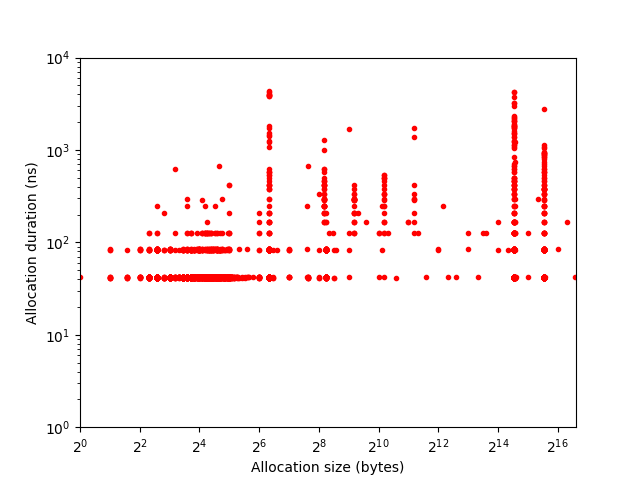
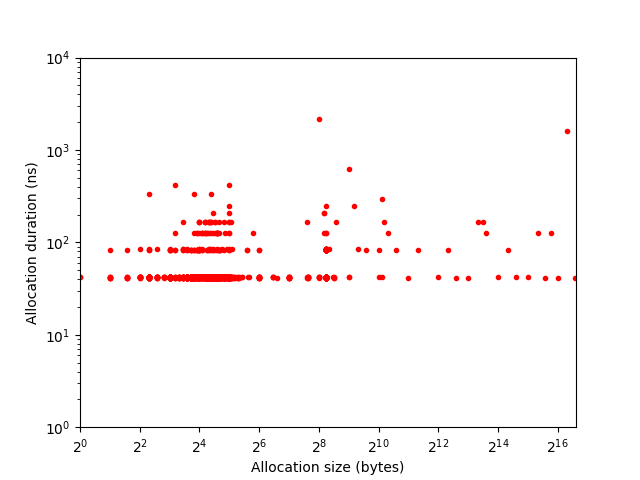
ch6: updating the speed of particle geting tansparent

diff --git a/ch6/particles/src/main.rs b/ch6/particles/src/main.rs
@@ -101,7 +101,7 @@ impl Particle {
         self.acceleration = mul_scalar(self.acceleration, 0.7);
 
         // makes the particle mor transparent over time
-        self.color[3] *= 0.95;
+        self.color[3] *= 0.995;
     }
 }
 
@@ -109,7 +109,7 @@ impl World {
     fn new(width: f64, height: f64) -> Self {
         Self {
             curent_turn: 0,
-            particles: Vec::with_capacity(1000),
+            particles: Vec::with_capacity(2000),
             height,
             width,
             rng: thread_rng(),
@@ -149,7 +149,7 @@ impl World {
     }
 
     fn update(&mut self) {
-        let n = self.rng.gen_range(-100..=100);
+        let n = self.rng.gen_range(-10..=10);
 
         if n > 0 {
             self.add_shapes(n);
@@ -158,7 +158,8 @@ impl World {
         }
 
         // dealloc
-        self.particles.shrink_to_fit();
+        // this could caused a lot dealloc
+        // self.particles.shrink_to_fit();
 
         for shape in &mut self.particles {
             shape.update();
